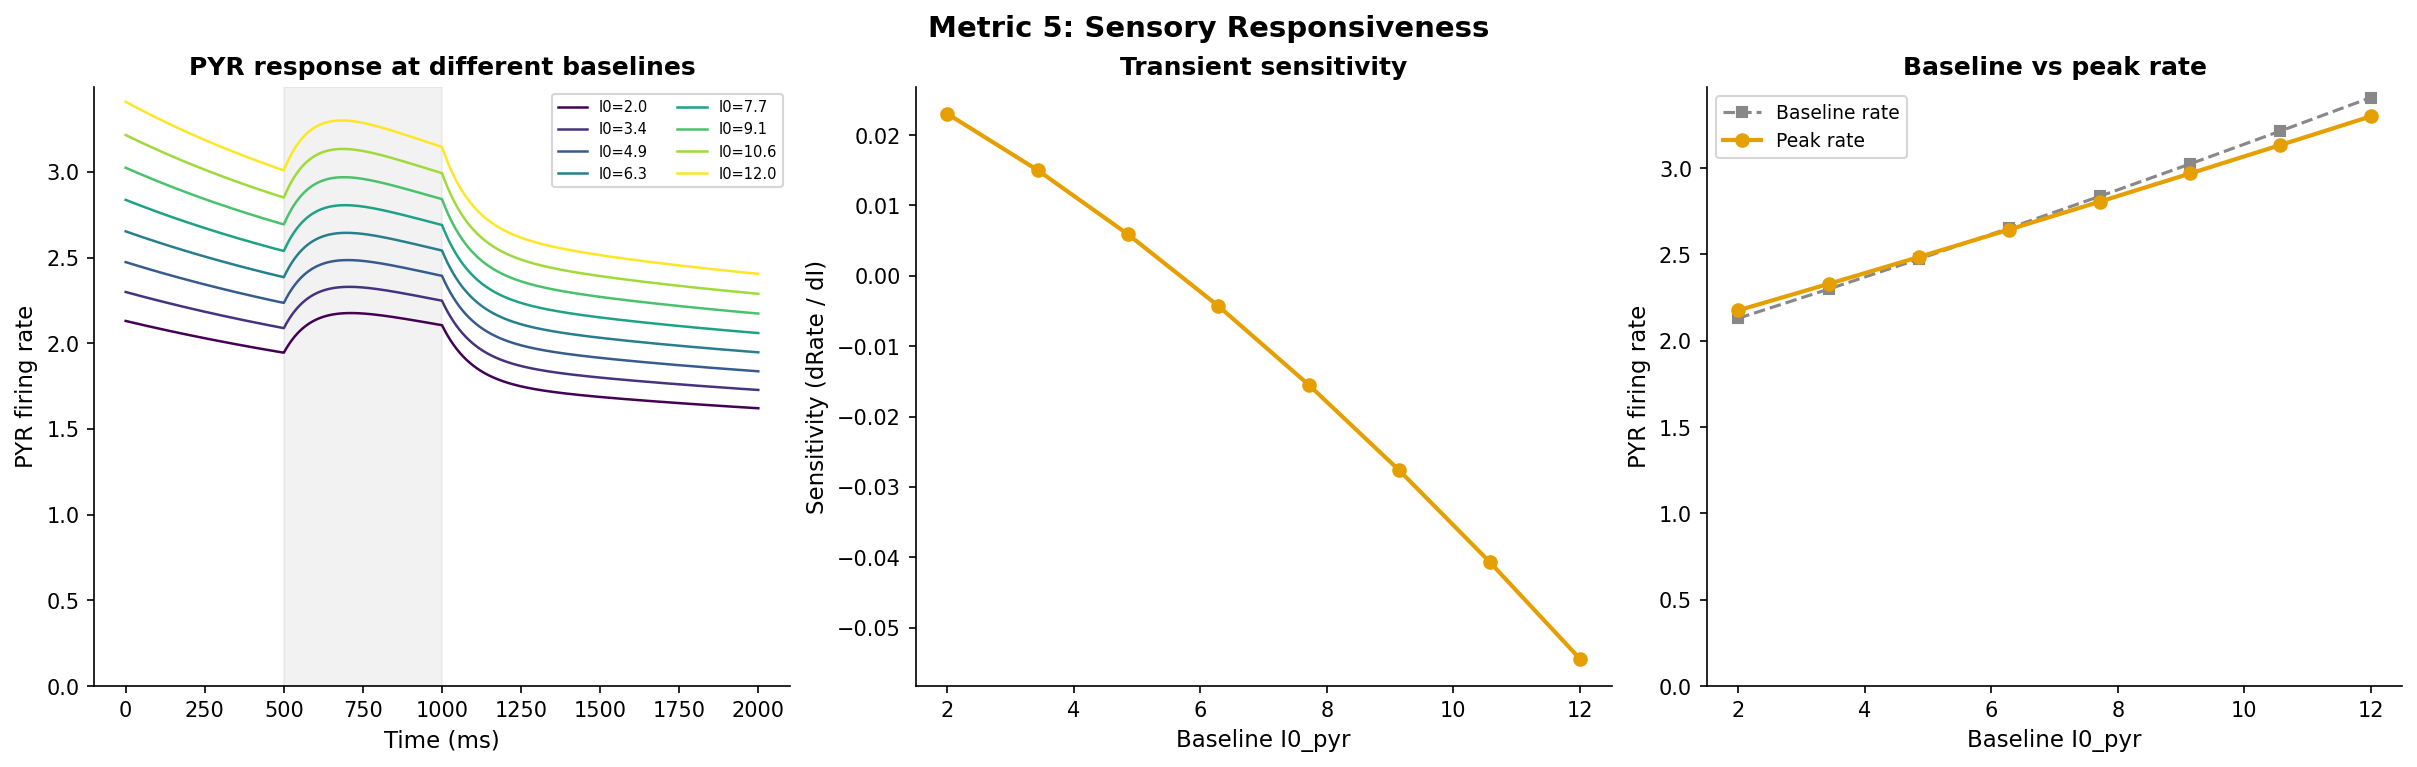
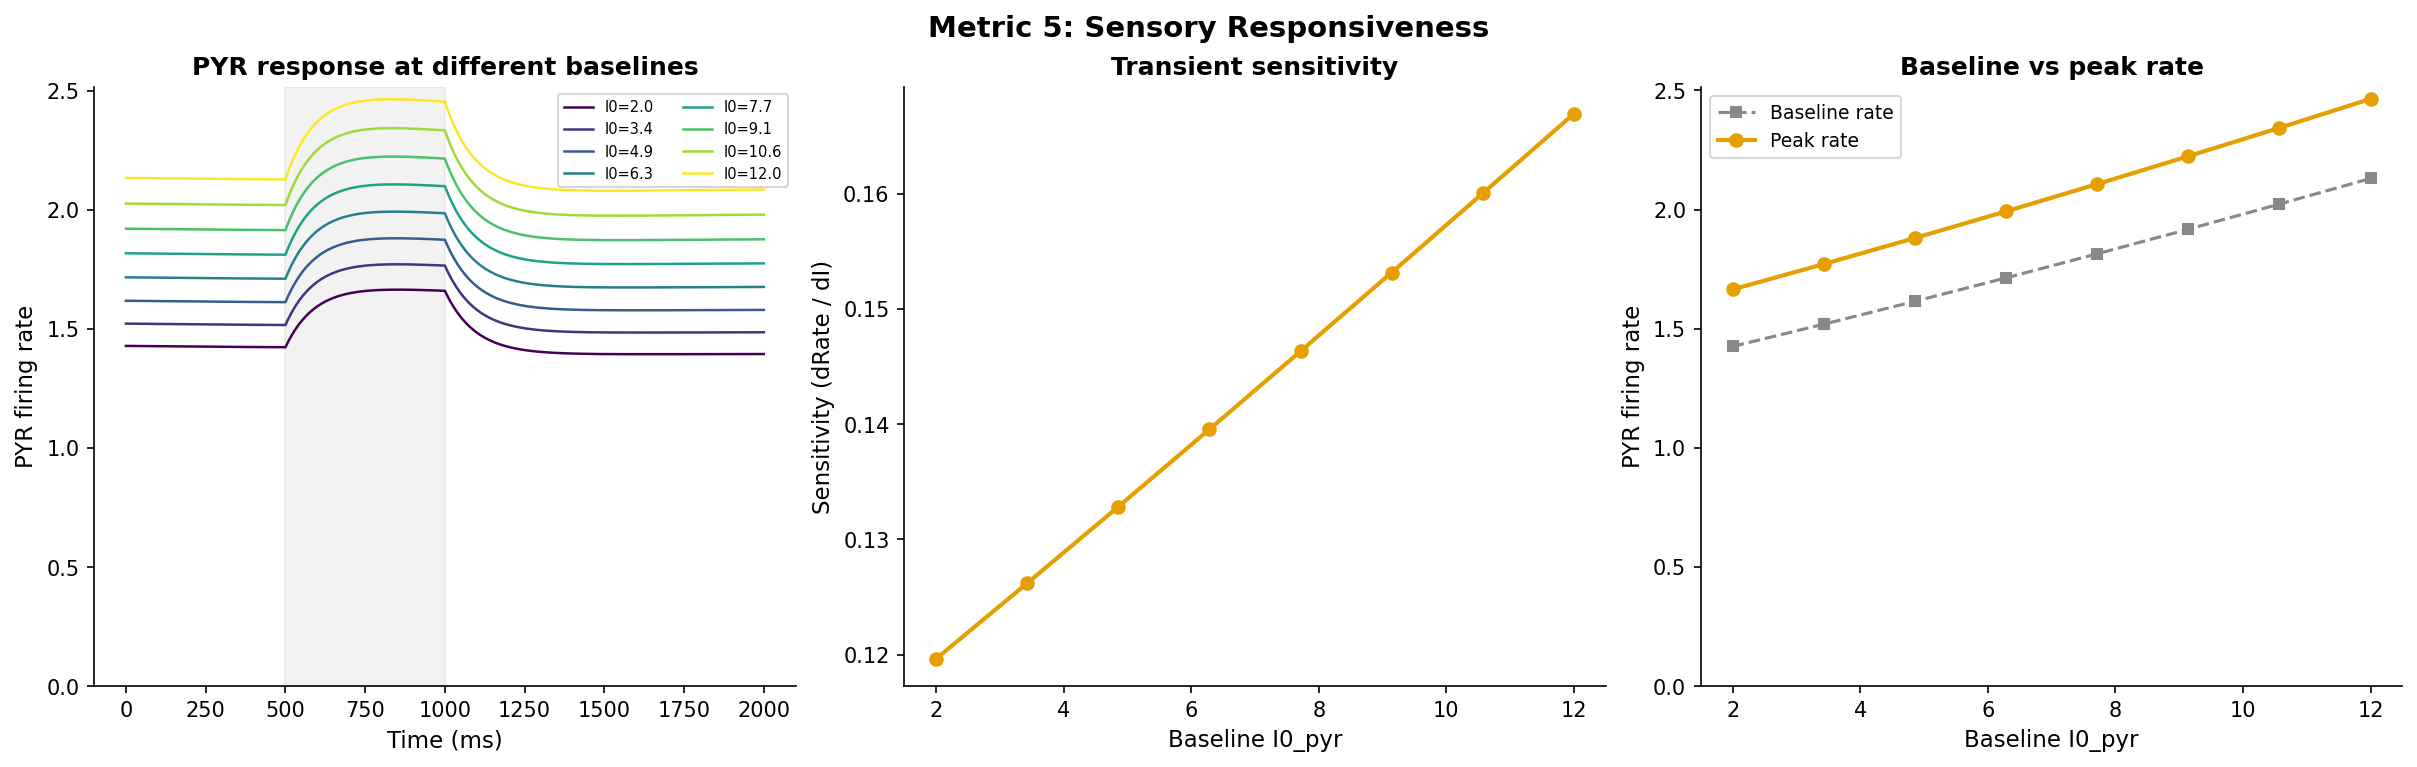
Results update

diff --git a/circuit_model/cli.py b/circuit_model/cli.py
@@ -189,7 +189,7 @@ def cmd_run(args: argparse.Namespace) -> None:
         save_path = args.save_plot
     else:
         out_dir = _output_dir("figs/runs", args.params_json)
-        save_path = os.path.join(out_dir, "circuit_simulation.png")
+        save_path = os.path.join(out_dir, f"circuit_simulation_{args.noise_type}.png")
 
     plot_simulation_dashboard(
         result,
@@ -250,7 +250,7 @@ def cmd_study(args: argparse.Namespace) -> None:
         save_path = args.save_plot
     else:
         out_dir = _output_dir("figs/boxplot", args.params_json)
-        save_path = os.path.join(out_dir, "study_boxplots.png")
+        save_path = os.path.join(out_dir, f"study_boxplots_{cfg.noise_type}.png")
 
     # Generate box plot
     print("\nGenerating box plot...")

diff --git a/circuit_model/study.py b/circuit_model/study.py
@@ -470,7 +470,8 @@ def plot_study_boxplots(
         if _check_display_available():
             plt.show(block=True)
         else:
-            fallback_path = save_path or "study_boxplots.png"
+            noise_type = results.config.noise_type
+            fallback_path = save_path or f"study_boxplots_{noise_type}.png"
             if not save_path:
                 fig.savefig(fallback_path, dpi=150, bbox_inches='tight')
                 print(f"No display available. Figure saved to: {fallback_path}")